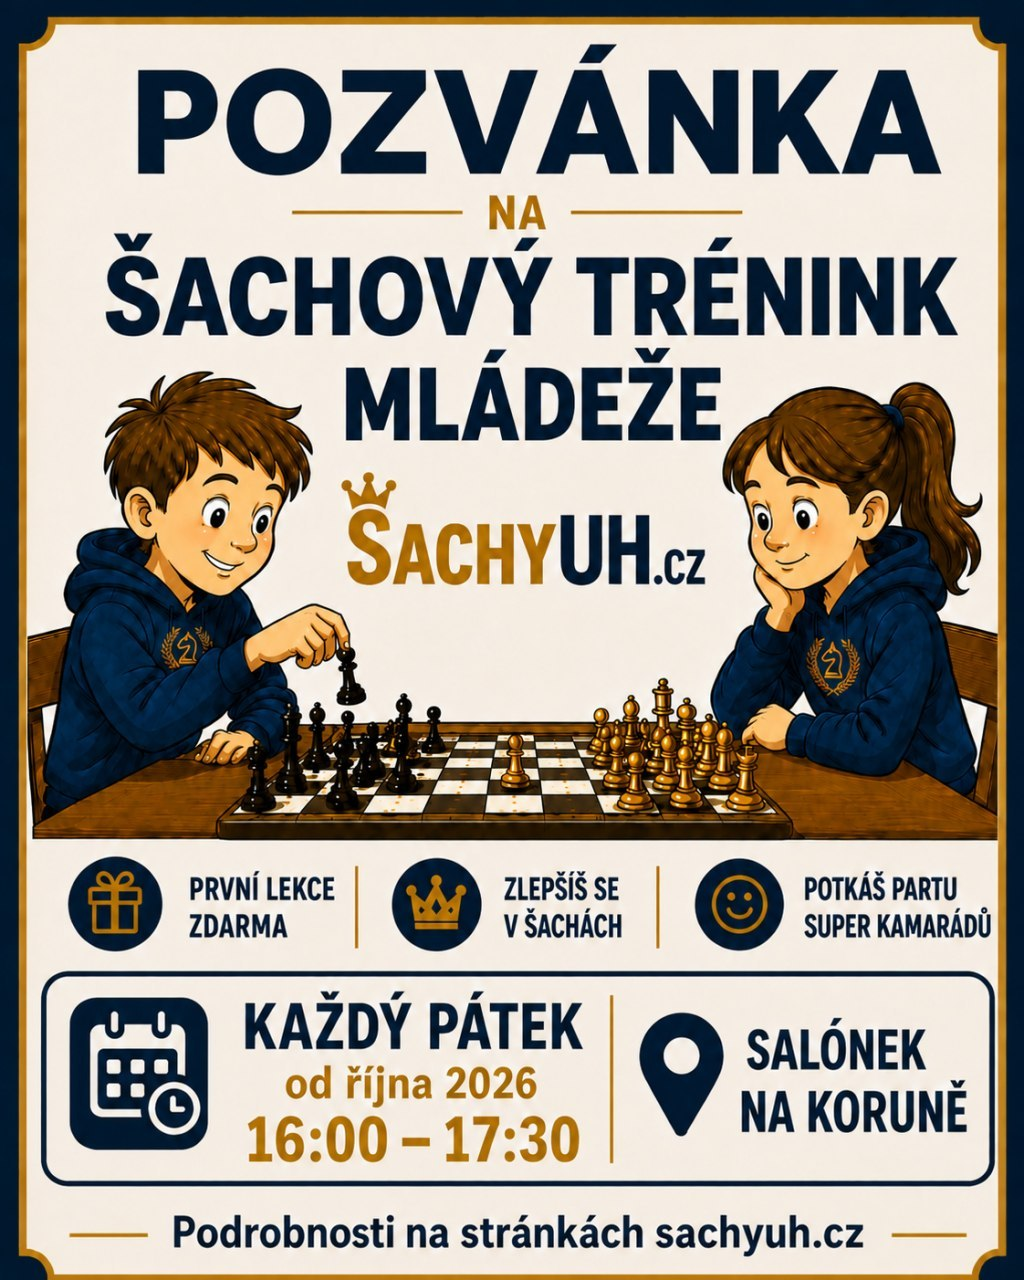
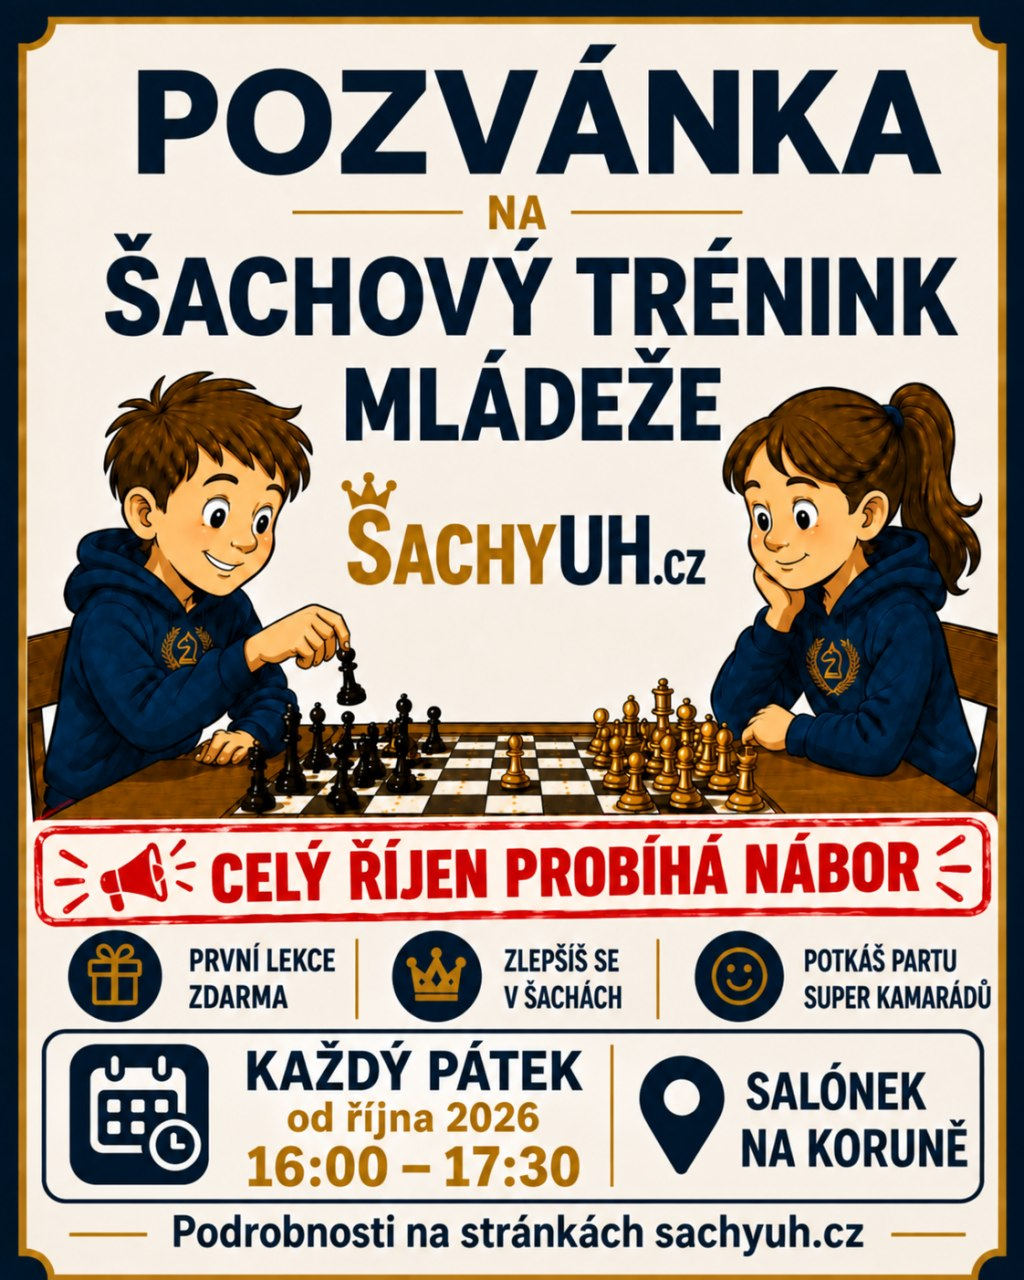
Trénink mládeže: stránka 1. lekce, nová pozvánka s náborem, lekce v historii

diff --git a/mladez/index.html b/mladez/index.html
@@ -1,0 +1,86 @@
+<!doctype html>
+<html lang="cs">
+<head>
+  <meta charset="utf-8">
+  <meta name="viewport" content="width=device-width, initial-scale=1">
+  <title>Trénink mládeže | sachyuh.cz</title>
+  <meta name="description" content="Šachový trénink mládeže v Uherském Hradišti — přehled lekcí.">
+  <meta name="theme-color" content="#001e32">
+  <link rel="icon" type="image/png" href="../assets/favicon-sachyuh.png">
+  <link rel="preconnect" href="https://fonts.googleapis.com">
+  <link rel="preconnect" href="https://fonts.gstatic.com" crossorigin>
+  <link href="https://fonts.googleapis.com/css2?family=Barlow+Condensed:wght@600;700;800&family=Inter:wght@400;500;600;700&display=swap" rel="stylesheet">
+  <link rel="stylesheet" href="../styles.css">
+  <style>
+    .lekce-body { padding-left: 1.4em; margin: 0; }
+    .lekce-body > li { margin-bottom: 28px; }
+    .lekce-body > li::marker { font-family: var(--font-display); font-weight: 700; font-size: 26px; color: var(--navy); }
+    .lekce-body > li > h3 { font-size: 26px; }
+    .lekce-body p { margin: 6px 0 0; line-height: 1.6; max-width: 640px; }
+    .lekce-hry { display: flex; flex-wrap: wrap; gap: 32px; margin-top: 16px; }
+    .lekce-hra { margin: 0; width: 280px; max-width: 100%; }
+    .lekce-hra h3 { font-size: 20px; margin-bottom: 10px; }
+    .lekce-hra img { width: 100%; display: block; border-radius: 6px; box-shadow: 0 2px 10px rgba(0,0,0,0.15); }
+    .lekce-hra figcaption { margin-top: 10px; font-size: 0.92rem; line-height: 1.5; }
+    .domaci-ukol { margin-top: 8px; padding: 16px 20px; border-left: 4px solid var(--navy); background: rgba(0,30,50,0.05); border-radius: 4px; max-width: 640px; }
+    .domaci-ukol h3 { font-size: 22px; }
+    .domaci-ukol p { margin: 6px 0 0; }
+  </style>
+</head>
+<body>
+  <header class="site-header">
+    <a class="brand" href="../index.html" aria-label="sachyuh.cz">
+      <img class="brand-logo brand-logo-wide" src="../assets/brand-sachyuh.png" alt="sachyuh.cz">
+    </a>
+    <nav class="top-nav" aria-label="Hlavní navigace">
+      <a href="../index.html">Hlavní stránka</a>
+    </nav>
+  </header>
+
+  <main>
+    <section class="content" aria-labelledby="lekce1-title">
+      <div class="section-heading">
+        <p class="eyebrow">Trénink mládeže</p>
+        <h2 id="lekce1-title">1. lekce — úvodní hodina (2.&nbsp;10.&nbsp;2026)</h2>
+      </div>
+      <ol class="lekce-body">
+        <li>
+          <h3>Seznámení</h3>
+          <p>Zjistili jsme, že všichni umí táhnout figurkami, proto jsme rovnou přešli k úvodní hře. K jednotlivým figurkám se ale v budoucnu určitě ještě několikrát vrátíme.</p>
+        </li>
+        <li>
+          <h3>Úvodní hra</h3>
+          <p>Zatímco se Hradiště poprvé chodilo dívat na nový zimní stadion a na Masarykově náměstí se chystal průvod broučků s lampiónky, v Salónku Na Koruně bylo ticho a soustředění. Každý si sedl k šachovnici a odehrál svou úvodní partii. Led se prolomil i u nás, jen bez bruslí.</p>
+        </li>
+        <li>
+          <h3>Šachové minihry</h3>
+          <div class="lekce-hry">
+            <figure class="lekce-hra">
+              <h3>1. hra</h3>
+              <img src="lekce1-sachovnice.png" alt="Pozice: černý jezdec a8; bílí pěšci a2, b3, c4, d5, e6, f7; bílý král h1">
+              <figcaption>Bílý (automat) táhne jen v případě, že má co brát. Černý (hráč) má vysbírat pěšce a nakonec vzít krále.</figcaption>
+            </figure>
+            <figure class="lekce-hra">
+              <h3>2. hra — Ovečky a vlk</h3>
+              <img src="lekce1-ovecky-a-vlk.png" alt="Pozice: černá dáma d8; bílí pěšci a2–h2">
+              <figcaption>Bílý začíná. Když dojde pěšcem na poslední řadu, vyhrává.</figcaption>
+            </figure>
+          </div>
+        </li>
+        <li>
+          <h3>Mat dvěma těžkými figurami</h3>
+        </li>
+      </ol>
+      <div class="domaci-ukol">
+        <h3>Domácí úkol</h3>
+        <p>Výjimečně žádný.</p>
+      </div>
+    </section>
+  </main>
+
+  <footer class="footer">
+    <a href="../index.html">sachyuh.cz</a>
+    <a href="mailto:sachyuh@seznam.cz">sachyuh@seznam.cz</a>
+  </footer>
+</body>
+</html>

diff --git a/index.html b/index.html
@@ -22,7 +22,7 @@
   <main>
     <section class="content">
       <div class="poster">
-        <img src="assets/pozvanka-trenink-mladeze.jpg" alt="Pozvánka na Šachový trénink mládeže — každý pátek od října 2026, 16:00–17:30, Salónek Na Koruně" style="max-width:100%;display:block;">
+        <img src="assets/pozvanka-trenink-mladeze.jpg" alt="Pozvánka na Šachový trénink mládeže — každý pátek od října 2026, 16:00–17:30, Salónek Na Koruně. Celý říjen probíhá nábor." style="max-width:100%;display:block;">
       </div>
       <ul style="list-style:none; padding:0; margin:1.2rem 0 1rem; line-height:2; font-size:1rem;">
         <li>🕓 <strong>Každý pátek 16:00–17:30</strong>, od října 2026</li>
@@ -64,6 +64,15 @@
 
       <div class="event-list">
         <article class="event-item event-highlight">
+          <img class="event-logo" src="assets/venue-koruna.png" alt="Logo Na Koruně">
+          <div class="event-date">2. 10.<br>2026</div>
+          <div>
+            <h3><a href="mladez/index.html">Trénink mládeže &ndash; 1. lekce</a></h3>
+            <p>Úvodní hodina v Salónku Na Koruně &mdash; úvodní partie, šachové minihry a mat dvěma těžkými figurami.</p>
+          </div>
+        </article>
+
+        <article class="event-item">
           <img class="event-logo" src="assets/venue-osel.png" alt="Logo Hospůdka U Osla">
           <div class="event-date">6. 9.<br>2026</div>
           <div>
